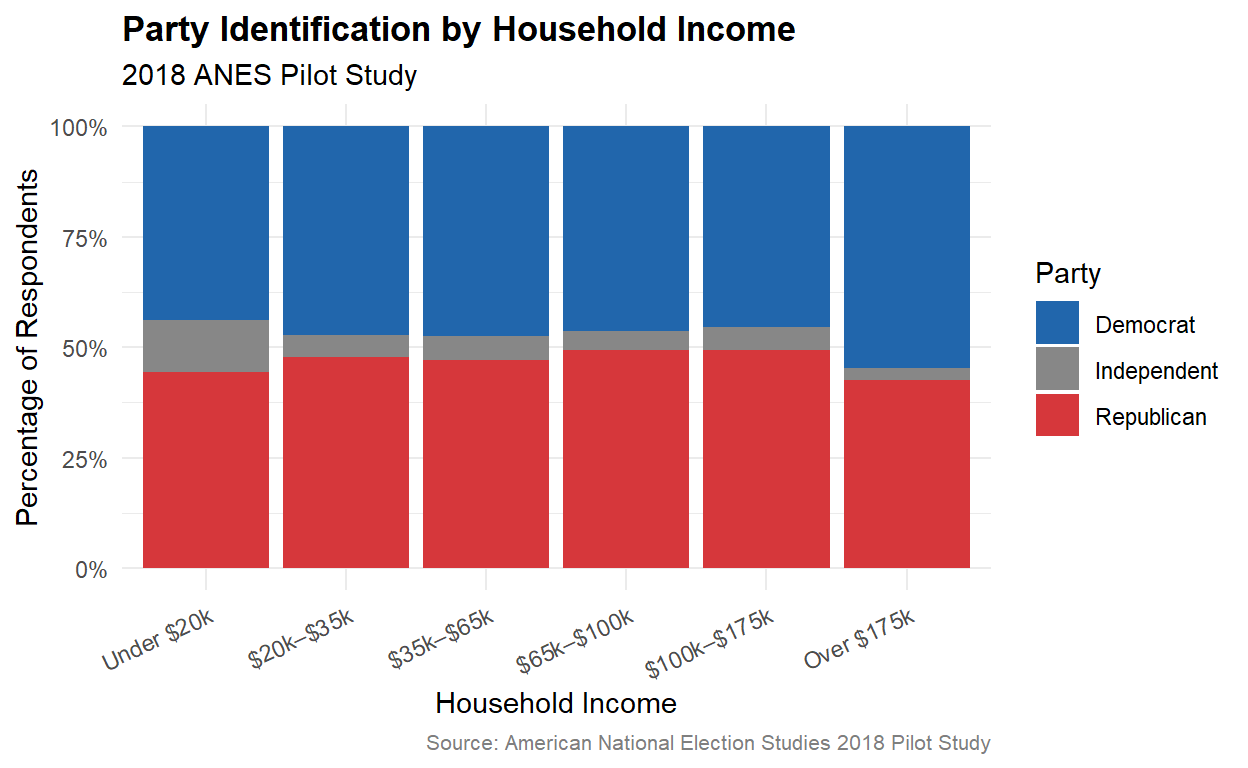
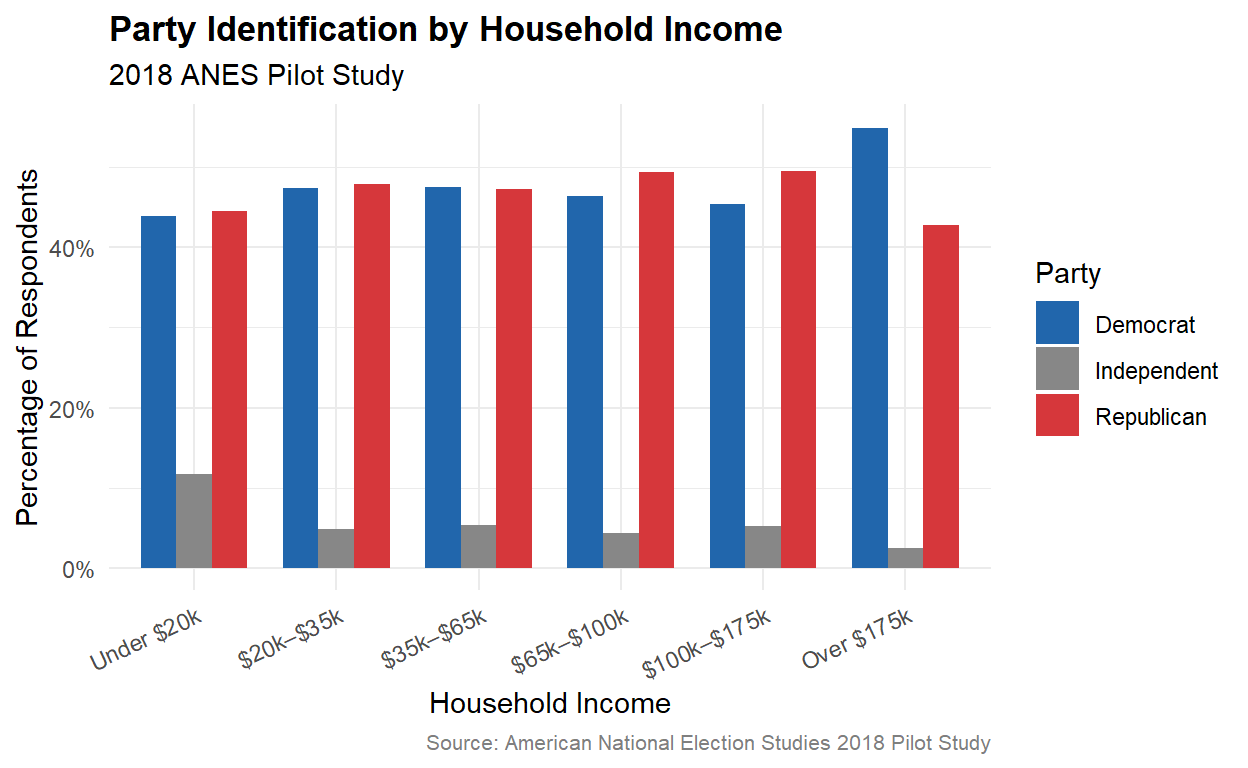
change visualization

diff --git a/index.html b/index.html
@@ -1543,6 +1543,7 @@ code span.wa { color: #5e5e5e; font-style: italic; } /* Warning */
 <div class="d-article">
 <h2 id="project-thoughts">Project thoughts</h2>
 <p>This project uses data from the 2018 ANES Pilot Study, a nationally representative survey of American adults conducted by the American National Election Studies program, a collaboration between Stanford University and the University of Michigan. The ANES contains a wide range of demographic and attitudinal variables, making it well-suited for studying the relationship between socioeconomic status and political behavior. My research question is “does individual income predict party identification among American adults?” My hypothesis is that both high-income and low-income individuals are more likely to identify as Democrat, while middle-income individuals are more likely to identify as Republican. This hypothesis is based in the idea that the Democratic Party appeals and targets the opposite ends of the income distribution. Lower-income voters tend to support Democrats because of the party’s emphasis on social programs, redistribution, and workers’ rights, which directly benefit them economically. Higher-income voters, particularly those who are college-educated and in professional occupations, have increasingly shifted toward the Democratic Party due to its positions on social issues such as civil rights, immigration, and climate change, which align with the values common in wealthy, urban, and educated communities. Middle-income voters, by contrast, tend to prioritize economic concerns like taxation and small business interests, which align more closely with the Republican Party. My explanatory variable is household income, measured as an ordinal categorical variable in the 2018 ANES Pilot Study (the faminc_new variable), which captures respondents’ self-reported family income brackets. My outcome variable is party identification, measured using the pid7 variable, which captures whether respondents identify as Democrat, Republican, or Independent. A pattern in the data where both the lowest and highest income groups show stronger Democratic identification compared to middle-income respondents would support my hypothesis. Otherwise, if party identification increases or decreases with income, that would disprove it.</p>
+<p>The data partially support my hypothesis. Lower-income groups show stronger Democratic identification, consistent with the expectation that economic redistribution appeals to this group. However, the pattern at the top of the income distribution is less clear — higher-income respondents do lean Democratic relative to middle-income groups, but the difference is modest. Republican identification peaks in the middle income brackets, which aligns with my hypothesis. Overall, the U-shaped pattern I predicted is weakly present but not as pronounced as expected.</p>
 <div class="layout-chunk" data-layout="l-body">
 <div class="sourceCode">
 <pre class="sourceCode r"><code class="sourceCode r"><span><span class='kw'><a href='https://rdrr.io/r/base/library.html'>library</a></span><span class='op'>(</span><span class='va'><a href='https://tidyverse.tidyverse.org'>tidyverse</a></span><span class='op'>)</span></span>
@@ -1578,10 +1579,11 @@ code span.wa { color: #5e5e5e; font-style: italic; } /* Warning */
 <span>  <span class='fu'><a href='https://dplyr.tidyverse.org/reference/group_by.html'>group_by</a></span><span class='op'>(</span><span class='va'>income_group</span><span class='op'>)</span> <span class='op'>|&gt;</span></span>
 <span>  <span class='fu'><a href='https://dplyr.tidyverse.org/reference/mutate.html'>mutate</a></span><span class='op'>(</span>pct <span class='op'>=</span> <span class='va'>n</span> <span class='op'>/</span> <span class='fu'><a href='https://rdrr.io/r/base/sum.html'>sum</a></span><span class='op'>(</span><span class='va'>n</span><span class='op'>)</span> <span class='op'>*</span> <span class='fl'>100</span><span class='op'>)</span></span>
 <span></span>
+<span><span class='co'># Visualization</span></span>
 <span><span class='fu'><a href='https://ggplot2.tidyverse.org/reference/ggplot.html'>ggplot</a></span><span class='op'>(</span><span class='va'>plot_data</span>, <span class='fu'><a href='https://ggplot2.tidyverse.org/reference/aes.html'>aes</a></span><span class='op'>(</span>x <span class='op'>=</span> <span class='va'>income_group</span>, y <span class='op'>=</span> <span class='va'>pct</span>, fill <span class='op'>=</span> <span class='va'>party</span><span class='op'>)</span><span class='op'>)</span> <span class='op'>+</span></span>
-<span>  <span class='fu'><a href='https://ggplot2.tidyverse.org/reference/geom_bar.html'>geom_col</a></span><span class='op'>(</span>position <span class='op'>=</span> <span class='st'>"fill"</span><span class='op'>)</span> <span class='op'>+</span></span>
+<span>  <span class='fu'><a href='https://ggplot2.tidyverse.org/reference/geom_bar.html'>geom_col</a></span><span class='op'>(</span>position <span class='op'>=</span> <span class='st'>"dodge"</span>, width <span class='op'>=</span> <span class='fl'>0.75</span><span class='op'>)</span> <span class='op'>+</span></span>
 <span>  <span class='fu'><a href='https://ggplot2.tidyverse.org/reference/scale_manual.html'>scale_fill_manual</a></span><span class='op'>(</span>values <span class='op'>=</span> <span class='fu'><a href='https://rdrr.io/r/base/c.html'>c</a></span><span class='op'>(</span><span class='st'>"Democrat"</span> <span class='op'>=</span> <span class='st'>"#2166AC"</span>, <span class='st'>"Independent"</span> <span class='op'>=</span> <span class='st'>"#878787"</span>, <span class='st'>"Republican"</span> <span class='op'>=</span> <span class='st'>"#D6373B"</span><span class='op'>)</span><span class='op'>)</span> <span class='op'>+</span></span>
-<span>  <span class='fu'><a href='https://ggplot2.tidyverse.org/reference/scale_continuous.html'>scale_y_continuous</a></span><span class='op'>(</span>labels <span class='op'>=</span> <span class='fu'>scales</span><span class='fu'>::</span><span class='va'><a href='https://scales.r-lib.org/reference/percent_format.html'>percent</a></span><span class='op'>)</span> <span class='op'>+</span></span>
+<span>  <span class='fu'><a href='https://ggplot2.tidyverse.org/reference/scale_continuous.html'>scale_y_continuous</a></span><span class='op'>(</span>labels <span class='op'>=</span> <span class='fu'>scales</span><span class='fu'>::</span><span class='fu'><a href='https://scales.r-lib.org/reference/label_number.html'>label_number</a></span><span class='op'>(</span>suffix <span class='op'>=</span> <span class='st'>"%"</span><span class='op'>)</span>, limits <span class='op'>=</span> <span class='fu'><a href='https://rdrr.io/r/base/c.html'>c</a></span><span class='op'>(</span><span class='fl'>0</span>, <span class='fl'>55</span><span class='op'>)</span><span class='op'>)</span> <span class='op'>+</span></span>
 <span>  <span class='fu'><a href='https://ggplot2.tidyverse.org/reference/labs.html'>labs</a></span><span class='op'>(</span></span>
 <span>    title <span class='op'>=</span> <span class='st'>"Party Identification by Household Income"</span>,</span>
 <span>    subtitle <span class='op'>=</span> <span class='st'>"2018 ANES Pilot Study"</span>,</span>
@@ -1597,7 +1599,65 @@ code span.wa { color: #5e5e5e; font-style: italic; } /* Warning */
 <span>    plot.caption <span class='op'>=</span> <span class='fu'><a href='https://ggplot2.tidyverse.org/reference/element.html'>element_text</a></span><span class='op'>(</span>color <span class='op'>=</span> <span class='st'>"gray50"</span>, size <span class='op'>=</span> <span class='fl'>8</span><span class='op'>)</span></span>
 <span>  <span class='op'>)</span></span></code></pre>
 </div>
-<p><img src="index_files/figure-html5/unnamed-chunk-1-1.png" alt="" width="624" /></p>
+<img src="index_files/figure-html5/unnamed-chunk-1-1.png" alt="" width="624" />
+<div class="sourceCode">
+<pre class="sourceCode r"><code class="sourceCode r"><span><span class='co'># Results table</span></span>
+<span><span class='va'>plot_data</span> <span class='op'>|&gt;</span></span>
+<span>  <span class='fu'><a href='https://dplyr.tidyverse.org/reference/mutate.html'>mutate</a></span><span class='op'>(</span>pct <span class='op'>=</span> <span class='fu'><a href='https://rdrr.io/r/base/Round.html'>round</a></span><span class='op'>(</span><span class='va'>pct</span>, <span class='fl'>1</span><span class='op'>)</span><span class='op'>)</span> <span class='op'>|&gt;</span></span>
+<span>  <span class='fu'><a href='https://dplyr.tidyverse.org/reference/select.html'>select</a></span><span class='op'>(</span><span class='va'>income_group</span>, <span class='va'>party</span>, <span class='va'>pct</span><span class='op'>)</span> <span class='op'>|&gt;</span></span>
+<span>  <span class='fu'><a href='https://tidyr.tidyverse.org/reference/pivot_wider.html'>pivot_wider</a></span><span class='op'>(</span>names_from <span class='op'>=</span> <span class='va'>party</span>, values_from <span class='op'>=</span> <span class='va'>pct</span><span class='op'>)</span> <span class='op'>|&gt;</span></span>
+<span>  <span class='fu'><a href='https://dplyr.tidyverse.org/reference/rename.html'>rename</a></span><span class='op'>(</span>`Income Group` <span class='op'>=</span> <span class='va'>income_group</span><span class='op'>)</span> <span class='op'>|&gt;</span></span>
+<span>  <span class='fu'>knitr</span><span class='fu'>::</span><span class='fu'><a href='https://rdrr.io/pkg/knitr/man/kable.html'>kable</a></span><span class='op'>(</span>caption <span class='op'>=</span> <span class='st'>"Party Identification by Income Group (% of respondents)"</span><span class='op'>)</span></span></code></pre>
+</div>
+<table>
+<caption><span id="tab:unnamed-chunk-1">Table 1: </span>Party Identification by Income Group (% of respondents)</caption>
+<thead>
+<tr class="header">
+<th style="text-align: left;">Income Group</th>
+<th style="text-align: right;">Democrat</th>
+<th style="text-align: right;">Independent</th>
+<th style="text-align: right;">Republican</th>
+</tr>
+</thead>
+<tbody>
+<tr class="odd">
+<td style="text-align: left;">Under $20k</td>
+<td style="text-align: right;">43.8</td>
+<td style="text-align: right;">11.7</td>
+<td style="text-align: right;">44.5</td>
+</tr>
+<tr class="even">
+<td style="text-align: left;">$20k–$35k</td>
+<td style="text-align: right;">47.3</td>
+<td style="text-align: right;">4.9</td>
+<td style="text-align: right;">47.8</td>
+</tr>
+<tr class="odd">
+<td style="text-align: left;">$35k–$65k</td>
+<td style="text-align: right;">47.4</td>
+<td style="text-align: right;">5.4</td>
+<td style="text-align: right;">47.1</td>
+</tr>
+<tr class="even">
+<td style="text-align: left;">$65k–$100k</td>
+<td style="text-align: right;">46.3</td>
+<td style="text-align: right;">4.3</td>
+<td style="text-align: right;">49.4</td>
+</tr>
+<tr class="odd">
+<td style="text-align: left;">$100k–$175k</td>
+<td style="text-align: right;">45.4</td>
+<td style="text-align: right;">5.2</td>
+<td style="text-align: right;">49.4</td>
+</tr>
+<tr class="even">
+<td style="text-align: left;">Over $175k</td>
+<td style="text-align: right;">54.8</td>
+<td style="text-align: right;">2.5</td>
+<td style="text-align: right;">42.7</td>
+</tr>
+</tbody>
+</table>
 </div>
 <div class="sourceCode" id="cb1"><pre class="sourceCode r distill-force-highlighting-css"><code class="sourceCode r"></code></pre></div>
 <!--radix_placeholder_article_footer-->
